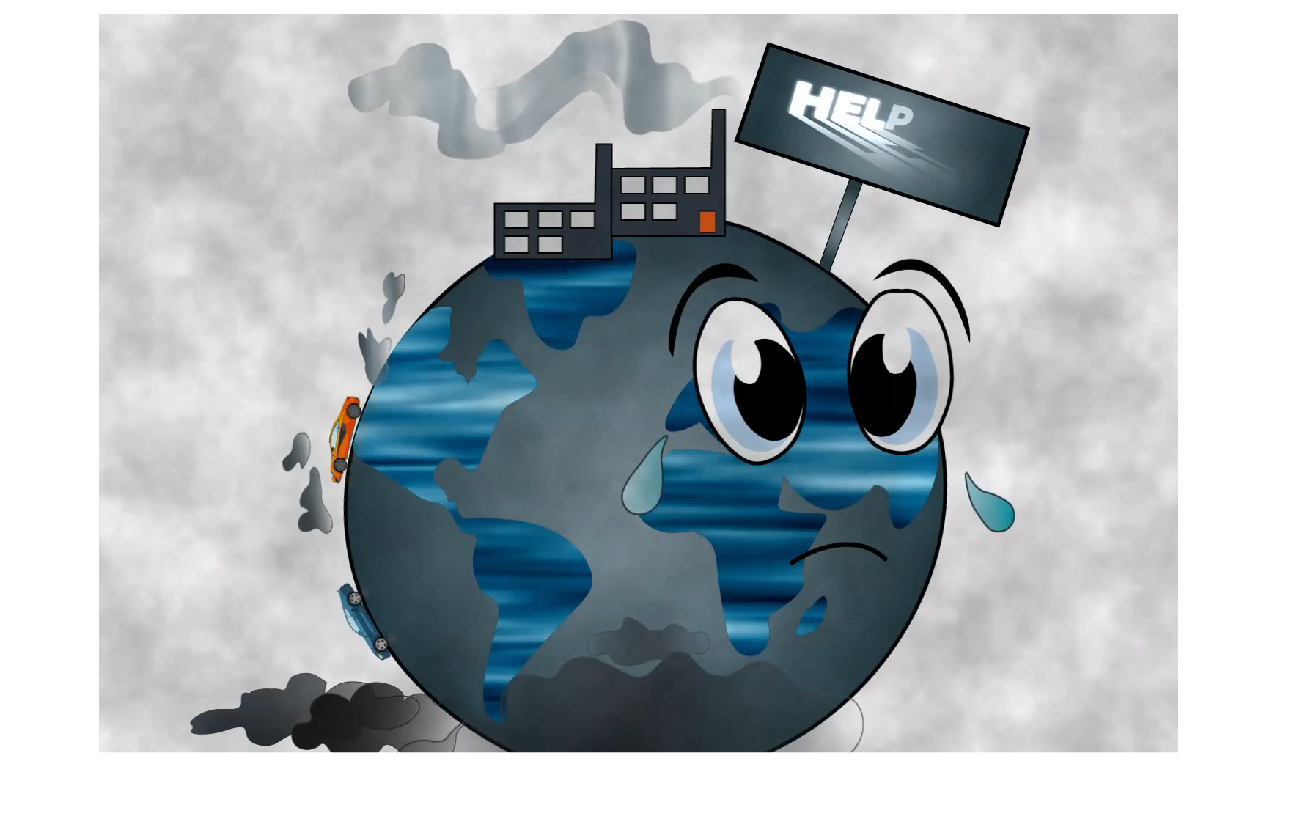
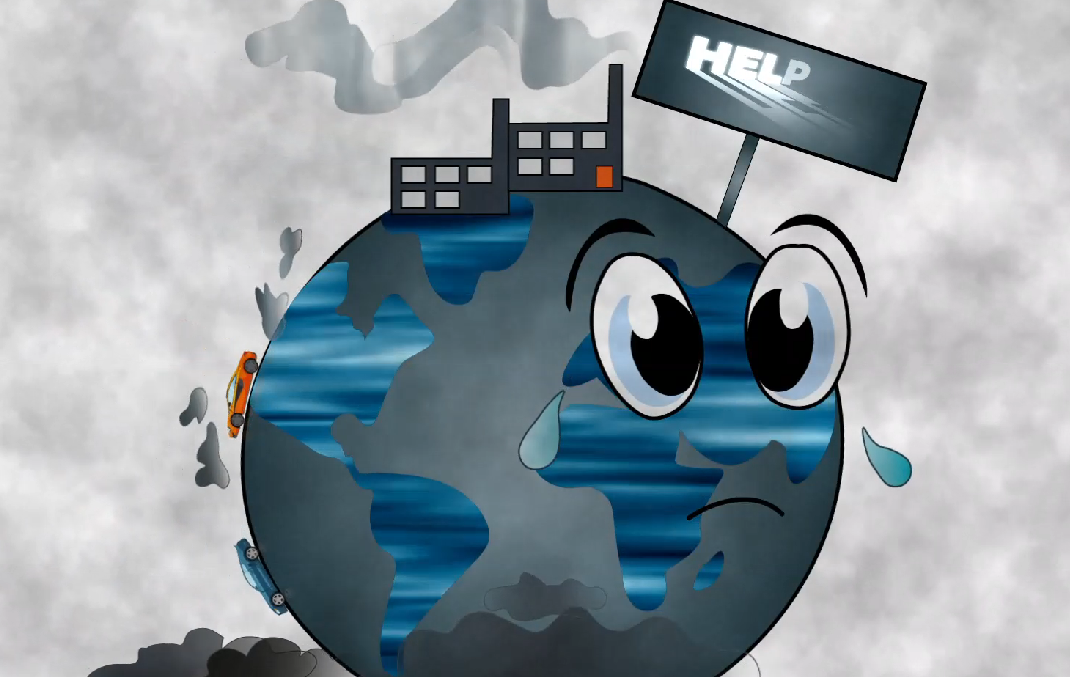
ach man eyy

diff --git a/assets/css/main.css b/assets/css/main.css
@@ -18,11 +18,10 @@
    1. DESIGN SYSTEM & VARIABLES
    ========================================= */
 
-/* Individual @font-face declarations moved to typography-global.css */
-/* @font-face {
+@font-face {
   font-family: 'Higuen';
   src: url('../fonts/Higuen.woff2') format('woff2');
-  font-weight: 100 900;
+  font-weight: 400;
   font-display: swap;
 }
 
@@ -31,7 +30,7 @@
   src: url('../fonts/OTNeglige-L.woff2') format('woff2');
   font-weight: 500;
   font-display: swap;
-} */
+}
 
 :root {
   /* ── Colors ── */
@@ -153,13 +152,86 @@ button { font-family: inherit; cursor: pointer; border: none; background: none; 
 /* =========================================
    3. TYPOGRAPHY
    ========================================= */
-/*
-  Global typography has been centralized in:
-  assets/css/typography-global.css
+h1, h2, h3, h4, h5, h6 {
+  margin: 0 0 var(--space-3) 0;
+  line-height: 1.2;
+}
 
-  Previous per-file headline/body font rules are intentionally disabled
-  here to avoid conflicts with the single global type system.
-*/
+h1,
+h2 {
+  font-family: var(--font-display);
+  font-feature-settings: "liga" 1, "dlig" 1, "ss01" 1, "swsh" 1;
+  color: var(--off-black);
+}
+
+h1 {
+  font-size: clamp(var(--text-2xl), 7vw, 110px);
+  font-weight: 500;
+  letter-spacing: 0.06em;
+  text-transform: none;
+}
+
+h2,
+section h2 {
+  font-size: clamp(var(--text-xl), 4.8vw, 72px);
+  font-weight: 500;
+  letter-spacing: 0.08em;
+  text-transform: none;
+}
+
+h1 em,
+h2 em,
+section h2 em {
+  font-family: inherit;
+  font-style: italic;
+  color: var(--burgundy);
+}
+
+h3,
+.h3,
+section h3 {
+  font-family: var(--font-titel);
+  font-size: var(--text-lg);
+  font-weight: 400;
+  text-transform: uppercase;
+  letter-spacing: 0.18em;
+}
+
+h4,
+h5,
+h6 {
+  font-family: var(--font-subtitel);
+  font-size: 1rem;
+  font-weight: 600;
+  text-transform: uppercase;
+  letter-spacing: 0.14em;
+}
+
+p,
+small,
+.text-meta,
+.lead,
+.text-lead {
+  font-family: var(--font-body);
+}
+
+/* Strong global lock for requested typography direction */
+body h1,
+body h2,
+body section h2 {
+  font-family: 'OT Neglige', 'Le Jour', serif !important;
+  font-feature-settings: "liga" 1, "dlig" 1, "ss01" 1, "swsh" 1 !important;
+  text-transform: none !important;
+}
+
+body h1 {
+  letter-spacing: 0.06em !important;
+}
+
+body h2,
+body section h2 {
+  letter-spacing: 0.08em !important;
+}
 
 /* =========================================
    4. EYEBROWS & LABELS

diff --git a/work/sbw.html b/work/sbw.html
@@ -938,7 +938,6 @@ body {
 }
 
 </style>
-    <link rel="stylesheet" href="../assets/css/typography-global.css">
 </head>
 <body>
 
@@ -1230,7 +1229,7 @@ body {
         <h2 class="films-title">Animationen <em><br>&amp; Filme</em></h2>
         <div class="films-grid">
             <div class="film-panel" data-vid="WT0xxpXWebc">
-                <img class="film-overlay-thumb" src="../assets/images/sbw/showcase_sbw_thumb_1.png" alt="Film 01" onerror="this.src='https://i.ytimg.com/vi/WT0xxpXWebc/hqdefault.jpg'">
+                <img class="film-overlay-thumb" src="../assets/images/sbw/showcase_sbw_thumb_2.png" alt="Film 01" onerror="this.src='https://i.ytimg.com/vi/WT0xxpXWebc/hqdefault.jpg'">
                 <span class="film-index">01</span>
                 <div class="film-overlay">
                     <div class="film-meta"><span class="film-meta-tag">Film · 01</span><span class="film-meta-title">Berufsbild<br>Mediamatiker</span></div>
@@ -1239,7 +1238,7 @@ body {
                 <iframe data-src="https://www.youtube-nocookie.com/embed/WT0xxpXWebc?autoplay=1&rel=0&modestbranding=1" frameborder="0" allow="autoplay;encrypted-media;picture-in-picture" allowfullscreen></iframe>
             </div>
             <div class="film-panel" data-vid="byE_WHPkp-Y">
-                <img class="film-overlay-thumb" src="../assets/images/sbw/showcase_sbw_thumb_2.png" alt="Film 02" onerror="this.src='https://i.ytimg.com/vi/byE_WHPkp-Y/hqdefault.jpg'">
+                <img class="film-overlay-thumb" src="../assets/images/sbw/showcase_sbw_thumb_1.png" alt="Film 02" onerror="this.src='https://i.ytimg.com/vi/byE_WHPkp-Y/hqdefault.jpg'">
                 <span class="film-index">02</span>
                 <div class="film-overlay">
                     <div class="film-meta"><span class="film-meta-tag">Film · 02</span><span class="film-meta-title">Animation<br>Urbangardening</span></div>

diff --git a/work/personal.html b/work/personal.html
@@ -647,7 +647,6 @@ body.ch-view #cur-label{opacity:1}
 ══════════════════════════════════════════ */
 .site-footer{background:#314A51 !important}
 </style>
-    <link rel="stylesheet" href="../assets/css/typography-global.css">
 </head>
 <body>
 <div id="cur-dot"></div>

diff --git a/blog/tiktok.html b/blog/tiktok.html
@@ -29,7 +29,6 @@
     <link rel="stylesheet" href="../assets/css/main.css">
     <link rel="stylesheet" href="../assets/css/footer-nav-waves.css">
     <link rel="stylesheet" href="../assets/css/blog.css">
-    <link rel="stylesheet" href="../assets/css/typography-global.css">
 </head>
 <body>
     <!-- Reading Progress Bar -->

diff --git a/blog/idpa.html b/blog/idpa.html
@@ -20,7 +20,6 @@
        <link rel="stylesheet" href="../assets/css/main.css" />
        <link rel="stylesheet" href="../assets/css/footer-nav-waves.css" />
        <link rel="stylesheet" href="../assets/css/blog.css" />
-    <link rel="stylesheet" href="../assets/css/typography-global.css">
 </head>
 
 <body>

diff --git a/blog/threads.html b/blog/threads.html
@@ -20,7 +20,6 @@
        <link rel="stylesheet" href="../assets/css/main.css" />
        <link rel="stylesheet" href="../assets/css/footer-nav-waves.css" />
        <link rel="stylesheet" href="../assets/css/blog.css" />
-    <link rel="stylesheet" href="../assets/css/typography-global.css">
 </head>
 
 <body>

diff --git a/blog/corona.html b/blog/corona.html
@@ -21,7 +21,6 @@
        <link rel="stylesheet" href="../assets/css/footer-nav-waves.css" />
        <link rel="stylesheet" href="../assets/css/blog.css" />
          
-    <link rel="stylesheet" href="../assets/css/typography-global.css">
 </head>
 
 <body>

diff --git a/work/fotografie.html b/work/fotografie.html
@@ -660,7 +660,6 @@
     /* ─── SCROLL REVEAL ─── */
     .js-up { opacity: 0; transform: translateY(36px); }
   </style>
-    <link rel="stylesheet" href="../assets/css/typography-global.css">
 </head>
 <body>
 

diff --git a/index.html b/index.html
@@ -64,7 +64,6 @@
       gtag('js', new Date());
       gtag('config', 'G-B415ZJNKNW');
     </script>
-      <link rel="stylesheet" href="assets/css/typography-global.css">
 </head>
   <body>
     <div id="smooth-wrapper">

diff --git a/work/win4.html b/work/win4.html
@@ -31,7 +31,6 @@
       gtag('js', new Date());
       gtag('config', 'G-B415ZJNKNW');
     </script>
-    <link rel="stylesheet" href="../assets/css/typography-global.css">
 </head>
 <body>
     <!-- HEADER -->

diff --git a/about.html b/about.html
@@ -87,7 +87,6 @@
     gtag('js', new Date());
     gtag('config', 'G-B415ZJNKNW');
   </script>
-    <link rel="stylesheet" href="assets/css/typography-global.css">
 </head>
 <body>
   <div id="smooth-wrapper">

diff --git a/blog.html b/blog.html
@@ -275,7 +275,6 @@
   .cats-grid { grid-template-columns: 1fr; }
 }
 </style>
-    <link rel="stylesheet" href="assets/css/typography-global.css">
 </head>
 <body>
 
